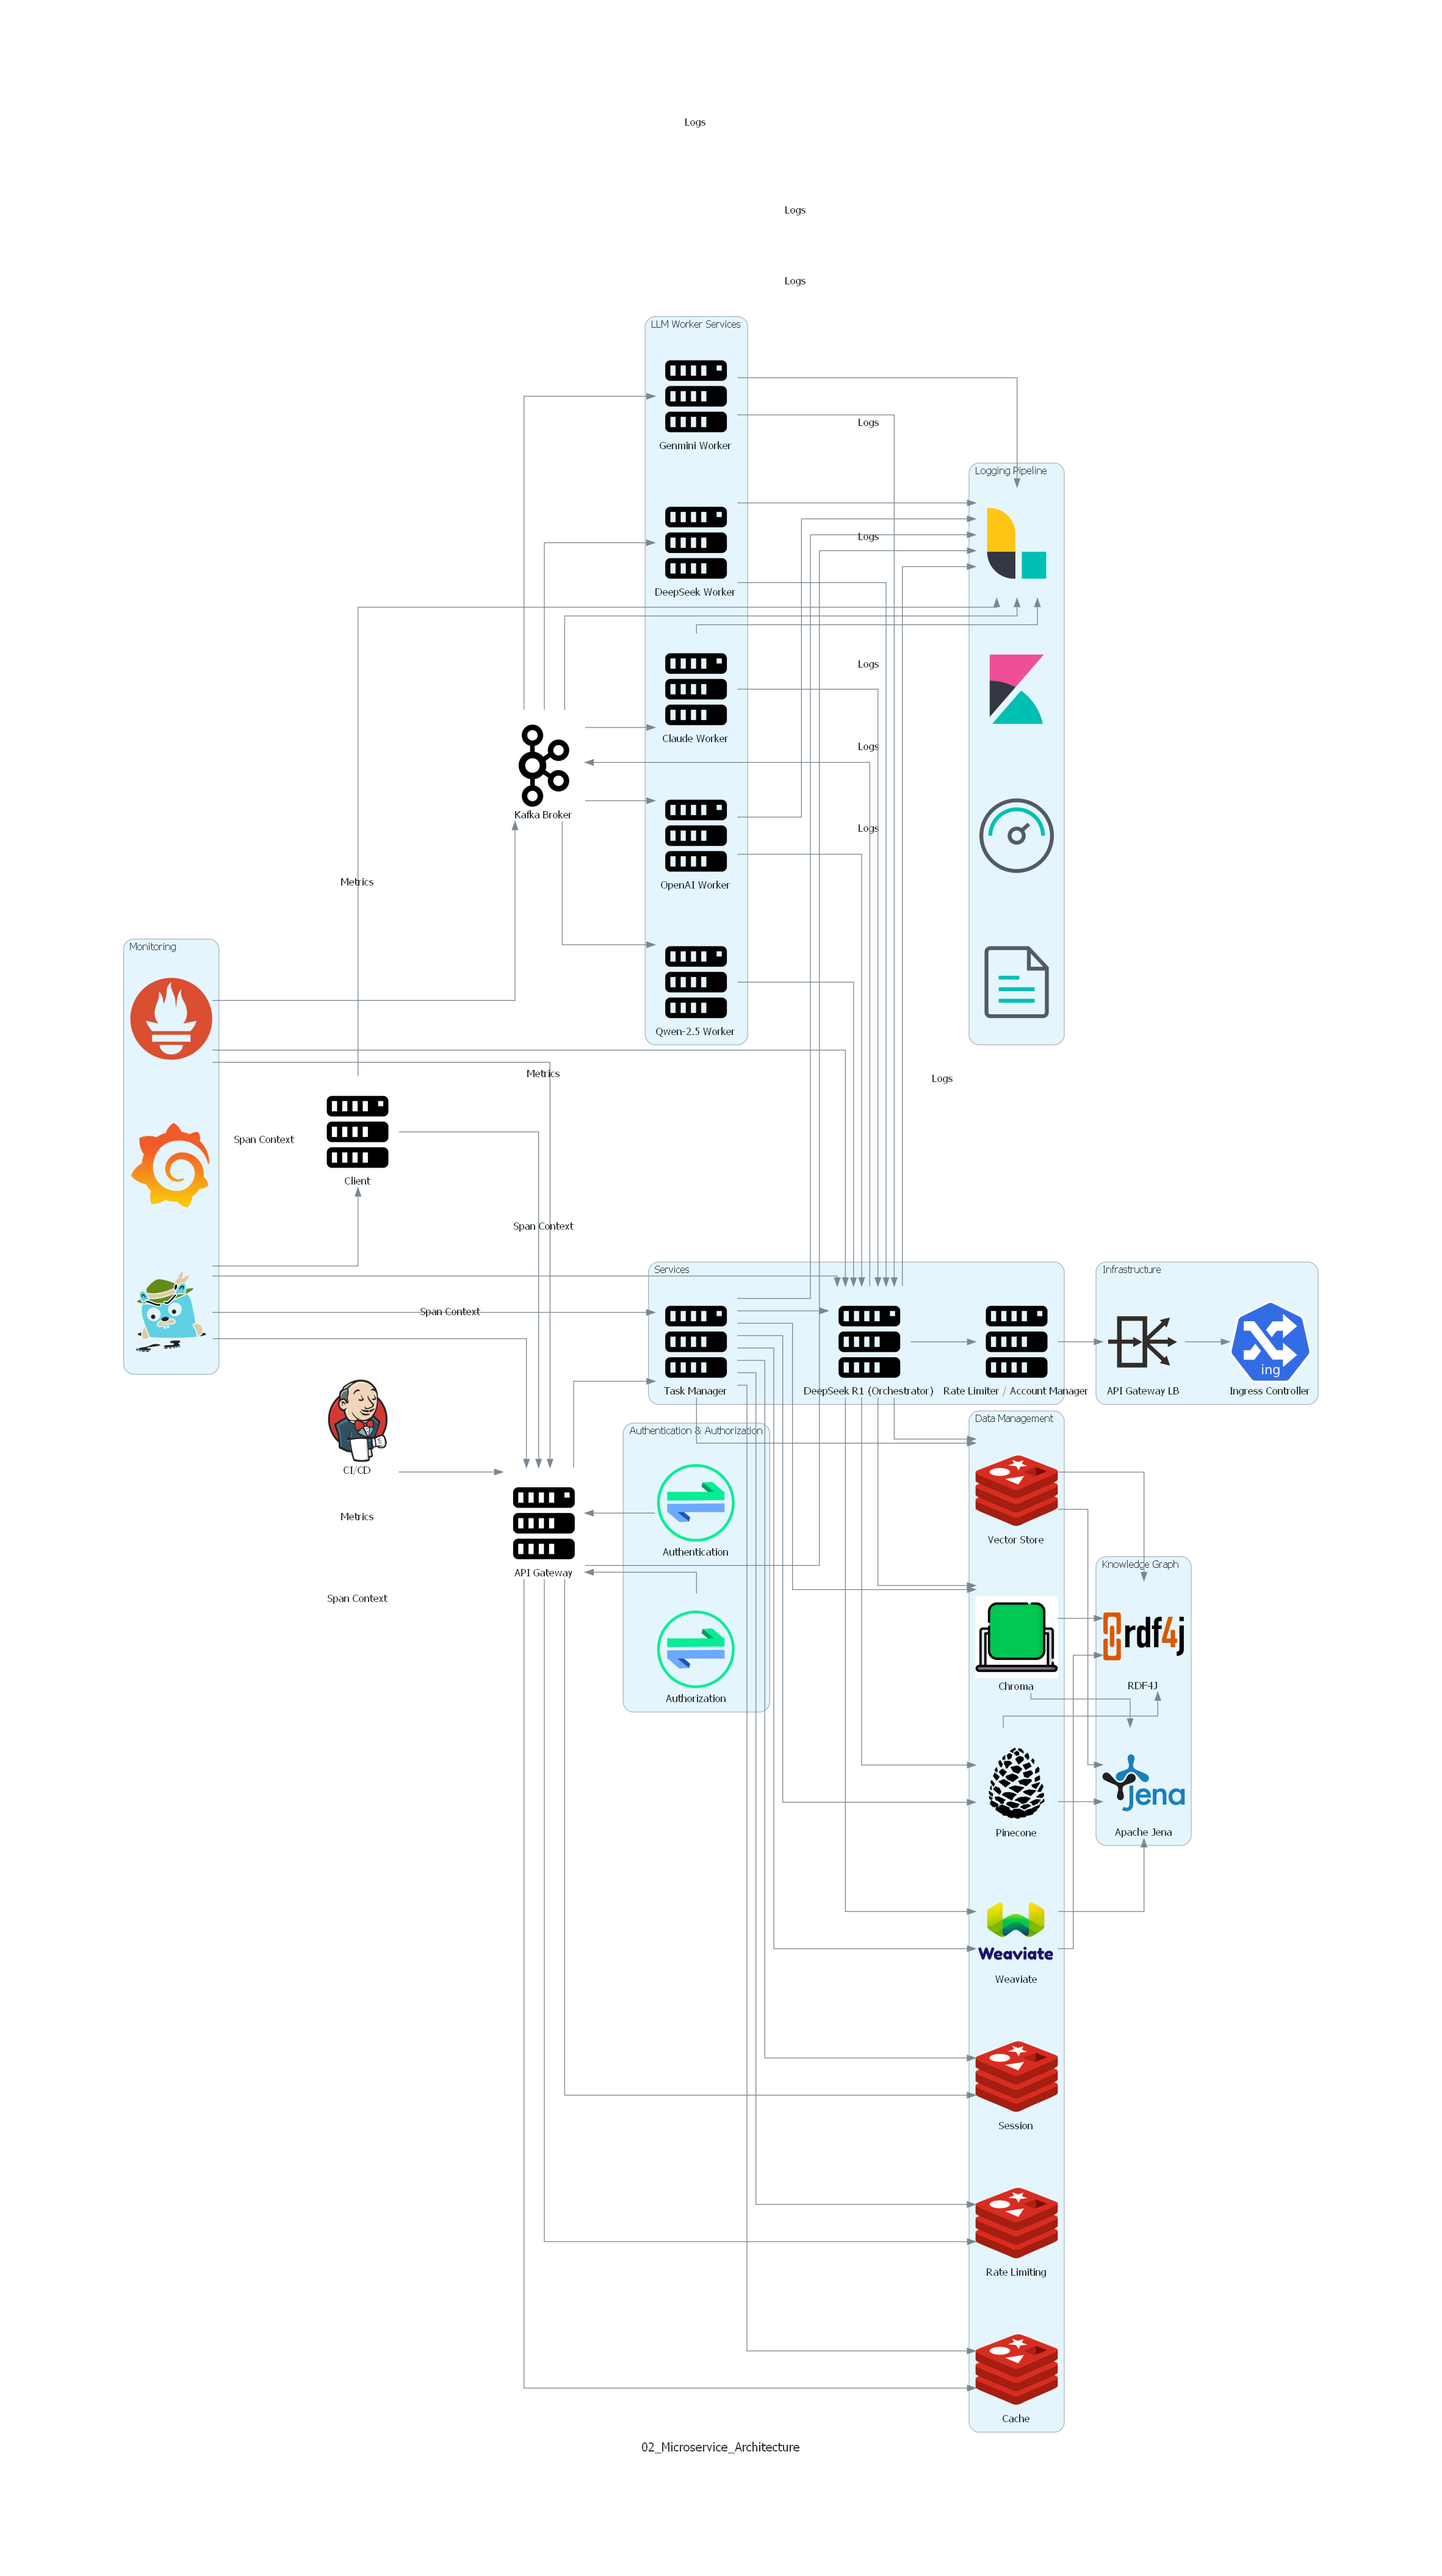
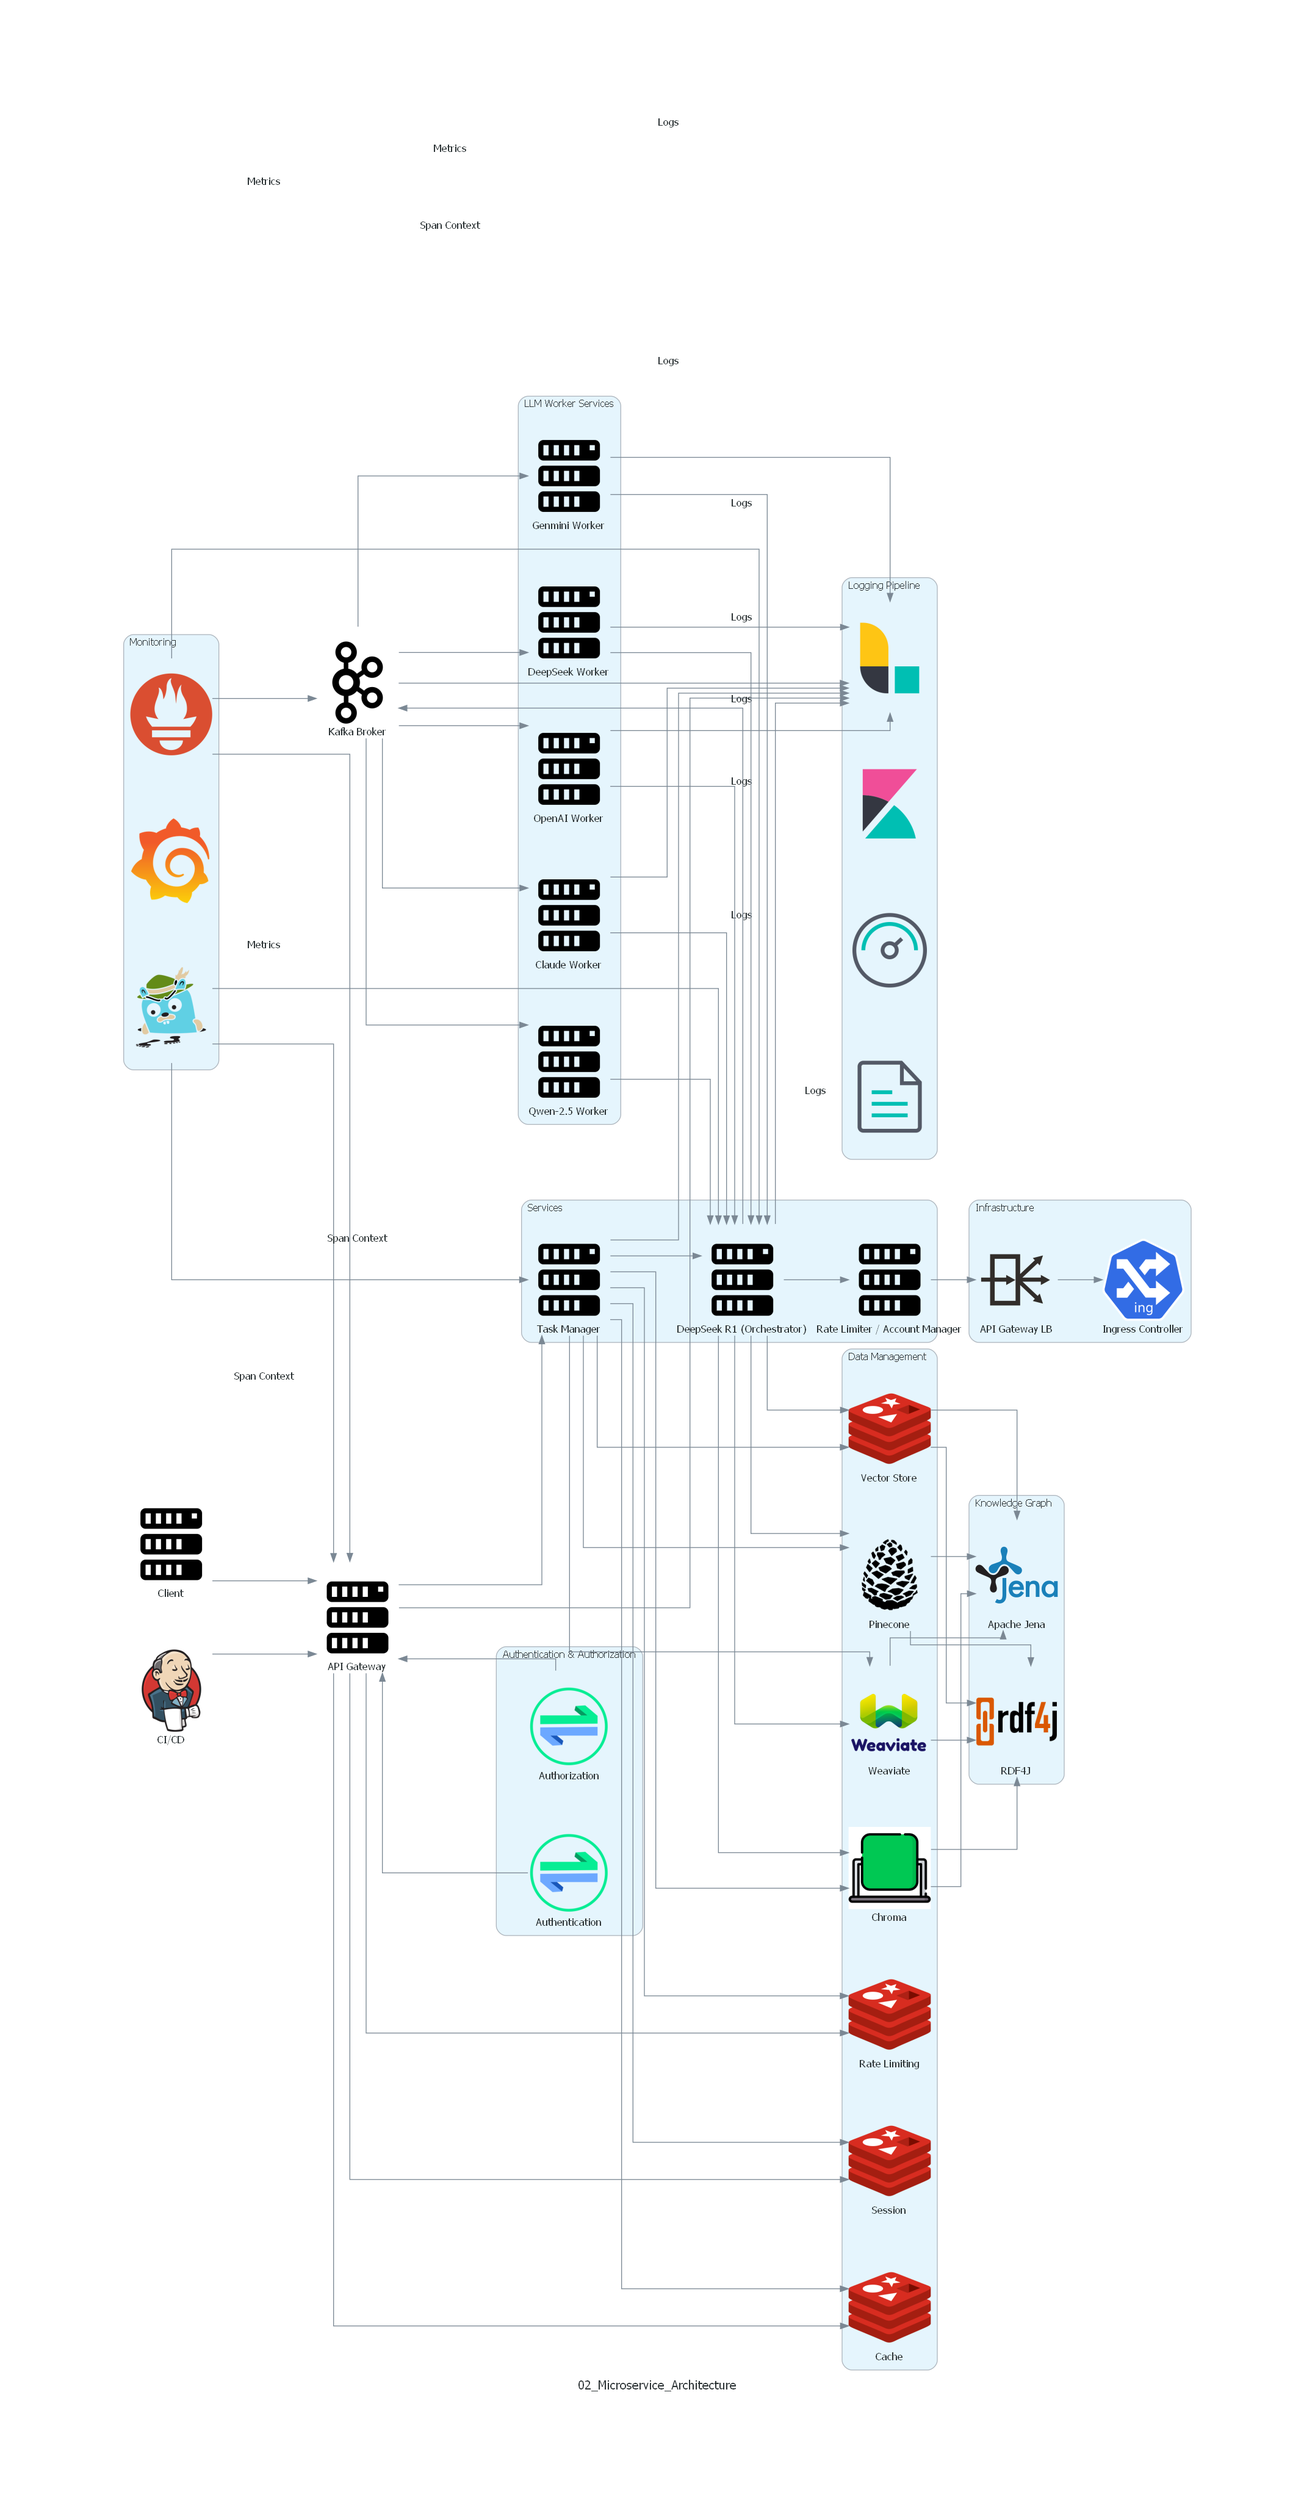
update

diff --git a/LLM Task Distribution System (Microservice)/5-DS-ollama/02-fixed-diagram.py b/LLM Task Distribution System (Microservice)/5-DS-ollama/02-fixed-diagram.py
@@ -1,0 +1,111 @@
+from diagrams import Diagram, Cluster, Edge
+from diagrams.oci.network import LoadBalancer
+from diagrams.onprem.queue import Kafka
+from diagrams.onprem.compute import Server
+from diagrams.onprem.monitoring import Prometheus, Grafana
+from diagrams.onprem.tracing import Jaeger
+from diagrams.onprem.auth import Oauth2Proxy as OAuth2
+from diagrams.onprem.auth import Oauth2Proxy as JWT
+from diagrams.onprem.network import Consul
+from diagrams.onprem.inmemory import Redis
+from diagrams.onprem.database import MySQL
+from diagrams.onprem.ci import Jenkins
+from diagrams.custom import Custom
+
+from diagrams.elastic.elasticsearch import Logstash, Kibana
+from diagrams.elastic.beats import Metricbeat, Filebeat
+from diagrams.k8s.network import Ingress as IngressController
+
+with Diagram("02_Fixed_Microservice_Architecture", show=False) as diag:
+
+    # Tạo các icon custom
+    logstash = lambda: Custom("Logstash", "./icons/logstash.png")
+    kibana = lambda: Custom("Kibana", "./icons/kibana.png")
+    metricbeat = lambda: Custom("Metricbeat", "./icons/metricbeat.png")
+    filebeat = lambda: Custom("Filebeat", "./icons/filebeat.png")
+
+    pinecone = lambda: Custom("Pinecone", "./icons/pinecone.png")
+    chroma = lambda: Custom("Chroma", "./icons/chroma.png")
+    weaviate = lambda: Custom("Weaviate", "./icons/weaviate.png")
+
+    apache_jena = Custom("Apache Jena", "./icons/apache_jena.png")
+    rdf4j = Custom("RDF4J", "./icons/rdf4j.png")
+
+    client = Server("Client")
+    gateway = Server("API Gateway") << (OAuth2("Authentication"), JWT("Authorization"))
+    
+    with Cluster("Services"):
+        task_manager = Server("Task Manager")
+        orchestrator = Server("DeepSeek R1 (Orchestrator)")
+        rate_limiter = Server("Rate Limiter / Account Manager")
+        
+    kafka = Kafka("Kafka Broker")
+    
+    with Cluster("LLM Worker Services"):
+        openai_worker = Server("OpenAI Worker")
+        genmini_worker = Server("Genmini Worker")
+        claude_worker = Server("Claude Worker")
+        deepseek_worker = Server("DeepSeek Worker")
+        qwen_worker = Server("Qwen-2.5 Worker")
+    
+    with Cluster("Monitoring"):
+        monitoring = [Prometheus(), Grafana(), Jaeger()]
+    
+    with Cluster("Security"):
+        security = [OAuth2("Auth"), JWT("Token Validation")]
+    
+    with Cluster("Infrastructure"):
+        load_balancer = LoadBalancer("API Gateway LB")
+
+    # with Cluster("Logging Pipeline"):
+    #     logstash = Logstash()
+    #     kibana = Kibana()
+    #     metricbeat = Metricbeat()
+    #     filebeat = Filebeat()    
+    
+    with Cluster("Logging Pipeline"):
+        logging_pipeline = [Server("Graylog"), logstash, kibana, metricbeat, filebeat]
+    
+    with Cluster("Data Management"):
+        vector_db = [pinecone, chroma, weaviate, Redis("Vector Store")]
+        cache_cluster = [Redis("Cache"), Redis("Session"), Redis("Rate Limiting")]
+    
+    with Cluster("Knowledge Graph"):
+        knowledge_graph = [apache_jena, rdf4j]
+    
+    # Connect components
+    client >> gateway
+    gateway >> task_manager
+    task_manager >> orchestrator
+    
+    orchestrator >> kafka
+    kafka >> [openai_worker, genmini_worker, claude_worker, deepseek_worker, qwen_worker]
+    [openai_worker, genmini_worker, claude_worker, deepseek_worker, qwen_worker] >> orchestrator
+    
+    orchestrator >> rate_limiter >> load_balancer
+    
+    # Monitoring connections
+    monitoring >> Edge(label="Metrics") >> orchestrator
+    monitoring >> Edge(label="Metrics") >> kafka
+    monitoring >> Edge(label="Metrics") >> gateway
+    
+    # Logging connections
+    client >> Edge(label="Logs") >> logstash
+    gateway >> Edge(label="Logs") >> logstash
+    task_manager >> Edge(label="Logs") >> logstash
+    orchestrator >> Edge(label="Logs") >> logstash
+    kafka >> Edge(label="Logs") >> logstash
+    
+    # Data management
+    for db in vector_db:
+        for kg in knowledge_graph:
+            db >> kg
+    
+    for cache in cache_cluster:
+        gateway >> cache
+        task_manager >> cache
+    
+    # CI/CD pipeline
+    Jenkins("CI/CD") >> gateway
+
+diag.view()

diff --git a/LLM Task Distribution System (Microservice)/5-DS-ollama/02-Microservice-Architecture-Diagram.py b/LLM Task Distribution System (Microservice)/5-DS-ollama/02-Microservice-Architecture-Diagram.py
@@ -98,13 +98,13 @@ with Diagram("02_Microservice_Architecture", show=False):
     prometheus >> Edge(label="Metrics") >> gateway
 
     # Tracing connections
-    jaeger >> Edge(label="Span Context") >> client
+    # jaeger >> Edge(label="Span Context") >> client
     jaeger >> Edge(label="Span Context") >> gateway
     jaeger >> Edge(label="Span Context") >> task_manager
     jaeger >> Edge(label="Span Context") >> orchestrator
 
     # Logging connections
-    client >> Edge(label="Logs") >> logstash
+    # client >> Edge(label="Logs") >> logstash
     gateway >> Edge(label="Logs") >> logstash
     task_manager >> Edge(label="Logs") >> logstash
     orchestrator >> Edge(label="Logs") >> logstash

diff --git a/LLM Task Distribution System (Microservice)/5-DS-ollama/02-prompt-diagram.md b/LLM Task Distribution System (Microservice)/5-DS-ollama/02-prompt-diagram.md
@@ -147,3 +147,106 @@ Các thành phần mới thêm hoặc cập nhật bao gồm:
 4. **Data Management**:
    - Redis được tách thành cache, session storage và rate limiting.
    - Thêm các vector DB như Pinecone, Chroma, Weaviate và
+
+### Fixed Error :
+ ```python
+ from diagrams import Diagram, Cluster, Edge
+from diagrams.oci.network import LoadBalancer
+from diagrams.onprem.queue import Kafka
+from diagrams.onprem.compute import Server
+from diagrams.onprem.monitoring import Prometheus, Grafana, Jaeger
+from diagrams.onprem.auth import Oauth2Proxy as OAuth2
+from diagrams.onprem.auth import Oauth2Proxy as JWT
+from diagrams.onprem.network import Consul
+from diagrams.onprem.inmemory import Redis
+from diagrams.onprem.database import MySQL
+from diagrams.onprem.ci import Jenkins
+from diagrams.custom import Custom
+
+# Tạo các icon custom
+logstash = Custom("Logstash", "./icons/logstash.png")
+kibana = Custom("Kibana", "./icons/kibana.png")
+metricbeat = Custom("Metricbeat", "./icons/metricbeat.png")
+filebeat = Custom("Filebeat", "./icons/filebeat.png")
+
+pinecone = Custom("Pinecone", "./icons/pinecone.png")
+chroma = Custom("Chroma", "./icons/chroma.png")
+weaviate = Custom("Weaviate", "./icons/weaviate.png")
+
+apache_jena = Custom("Apache Jena", "./icons/apache_jena.png")
+rdf4j = Custom("RDF4J", "./icons/rdf4j.png")
+
+with Diagram("02_Microservice_Architecture", show=False) as diag:
+    client = Server("Client")
+    gateway = Server("API Gateway") << (OAuth2("Authentication"), JWT("Authorization"))
+    
+    with Cluster("Services"):
+        task_manager = Server("Task Manager")
+        orchestrator = Server("DeepSeek R1 (Orchestrator)")
+        rate_limiter = Server("Rate Limiter / Account Manager")
+        
+    kafka = Kafka("Kafka Broker")
+    
+    with Cluster("LLM Worker Services"):
+        openai_worker = Server("OpenAI Worker")
+        genmini_worker = Server("Genmini Worker")
+        claude_worker = Server("Claude Worker")
+        deepseek_worker = Server("DeepSeek Worker")
+        qwen_worker = Server("Qwen-2.5 Worker")
+    
+    with Cluster("Monitoring"):
+        monitoring = [Prometheus(), Grafana(), Jaeger()]
+    
+    with Cluster("Security"):
+        security = [OAuth2("Auth"), JWT("Token Validation")]
+    
+    with Cluster("Infrastructure"):
+        load_balancer = LoadBalancer("API Gateway LB")
+    
+    with Cluster("Logging Pipeline"):
+        logging_pipeline = [Server("Graylog"), logstash, kibana, metricbeat, filebeat]
+    
+    with Cluster("Data Management"):
+        vector_db = [pinecone, chroma, weaviate, Redis("Vector Store")]
+        cache_cluster = [Redis("Cache"), Redis("Session"), Redis("Rate Limiting")]
+    
+    with Cluster("Knowledge Graph"):
+        knowledge_graph = [apache_jena, rdf4j]
+    
+    # Connect components
+    client >> gateway
+    gateway >> task_manager
+    task_manager >> orchestrator
+    
+    orchestrator >> kafka
+    kafka >> [openai_worker, genmini_worker, claude_worker, deepseek_worker, qwen_worker]
+    [openai_worker, genmini_worker, claude_worker, deepseek_worker, qwen_worker] >> orchestrator
+    
+    orchestrator >> rate_limiter >> load_balancer
+    
+    # Monitoring connections
+    monitoring >> Edge(label="Metrics") >> orchestrator
+    monitoring >> Edge(label="Metrics") >> kafka
+    monitoring >> Edge(label="Metrics") >> gateway
+    
+    # Logging connections
+    client >> Edge(label="Logs") >> logstash
+    gateway >> Edge(label="Logs") >> logstash
+    task_manager >> Edge(label="Logs") >> logstash
+    orchestrator >> Edge(label="Logs") >> logstash
+    kafka >> Edge(label="Logs") >> logstash
+    
+    # Data management
+    for db in vector_db:
+        for kg in knowledge_graph:
+            db >> kg
+    
+    for cache in cache_cluster:
+        gateway >> cache
+        task_manager >> cache
+    
+    # CI/CD pipeline
+    Jenkins("CI/CD") >> gateway
+
+diag.view()
+```  
